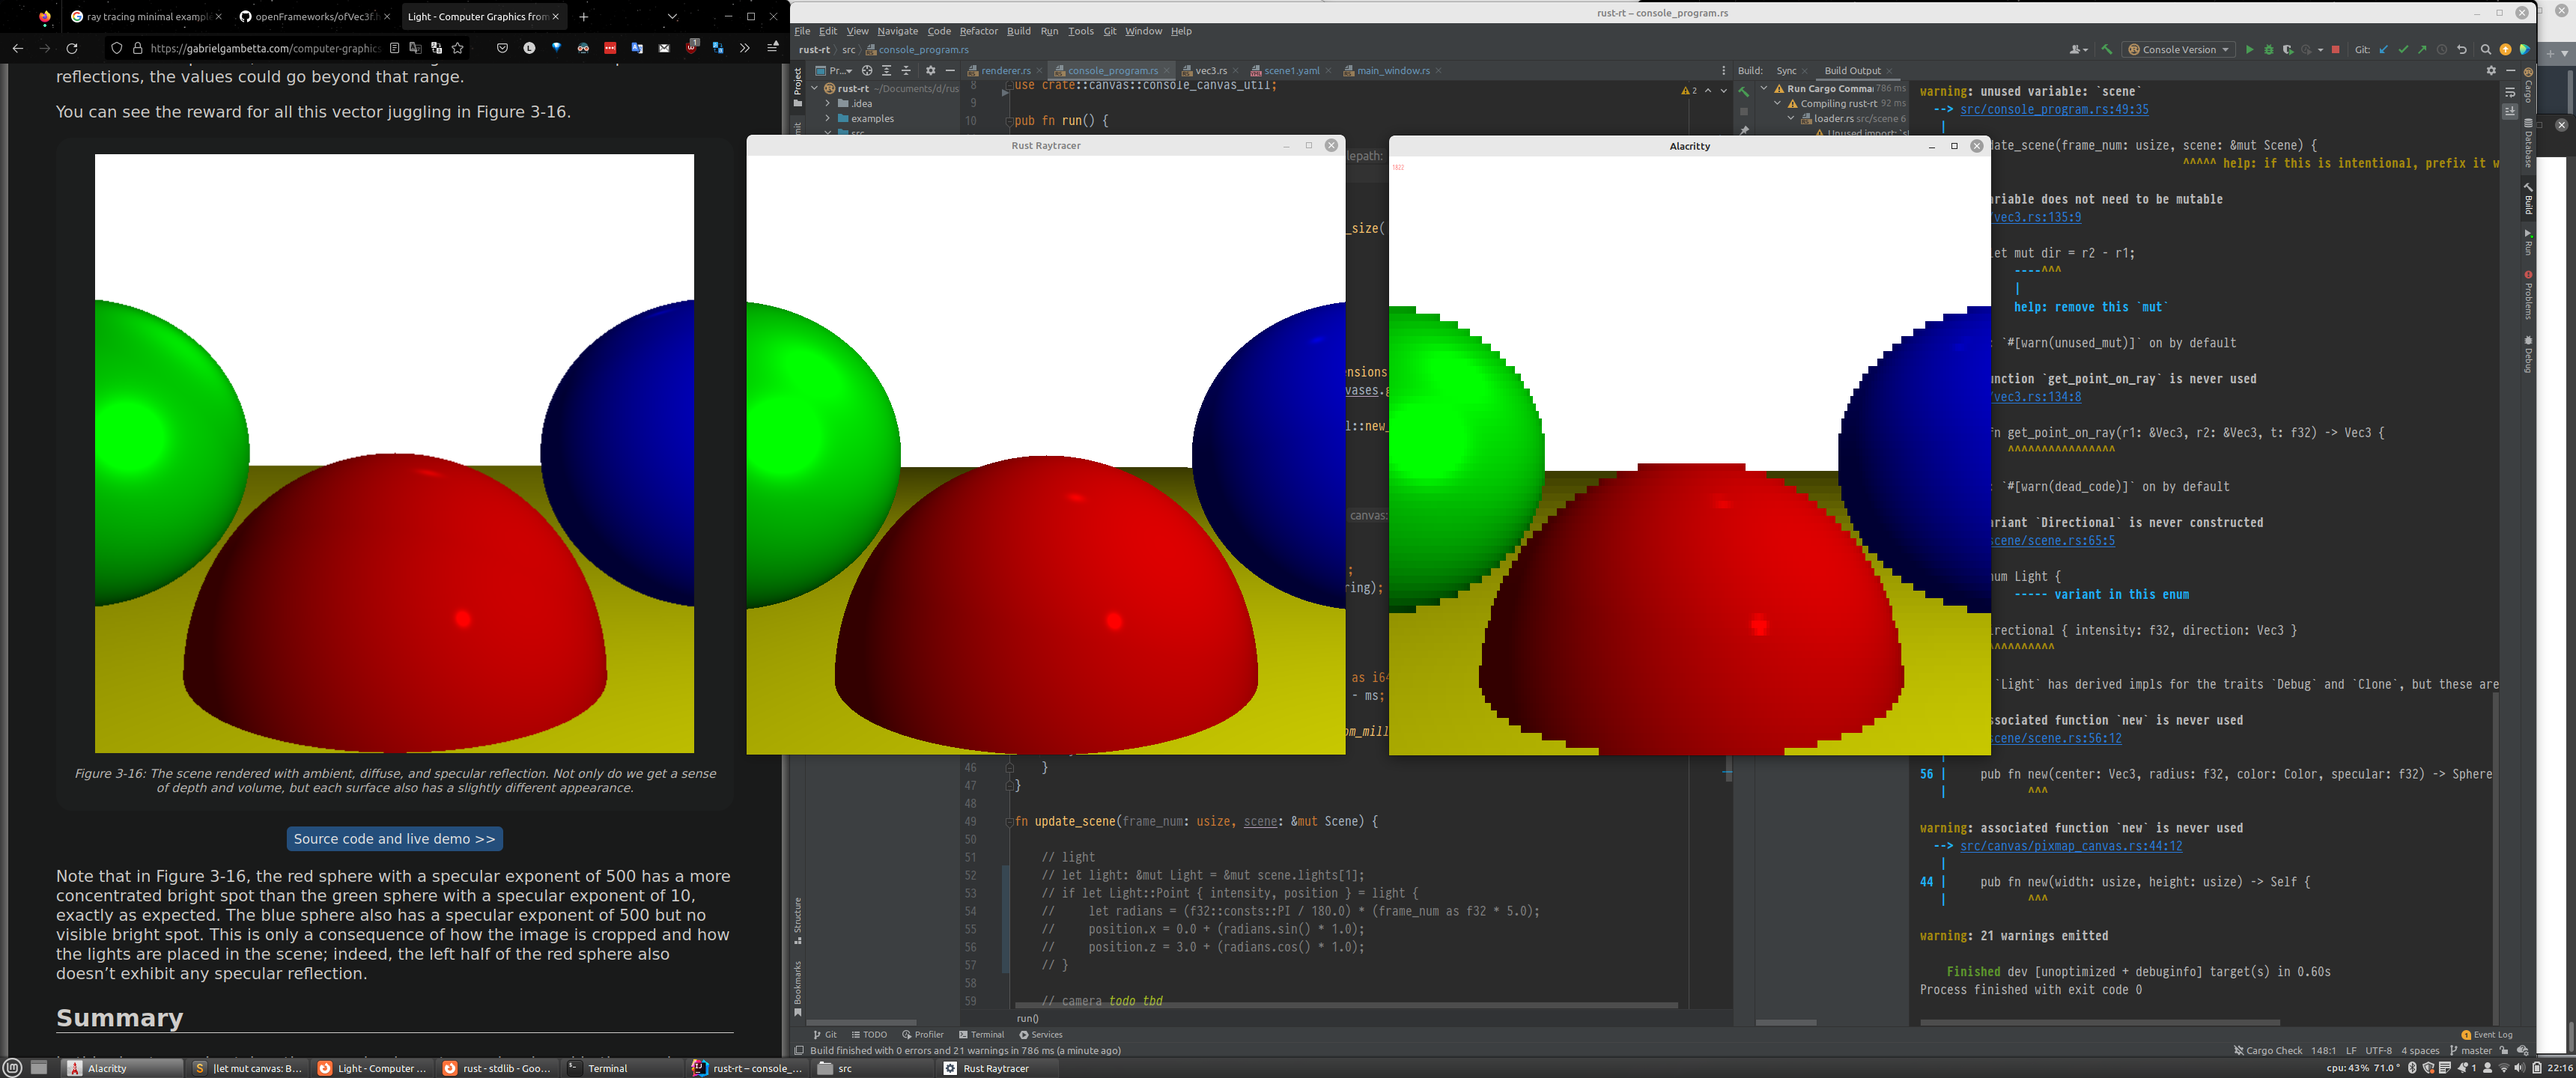
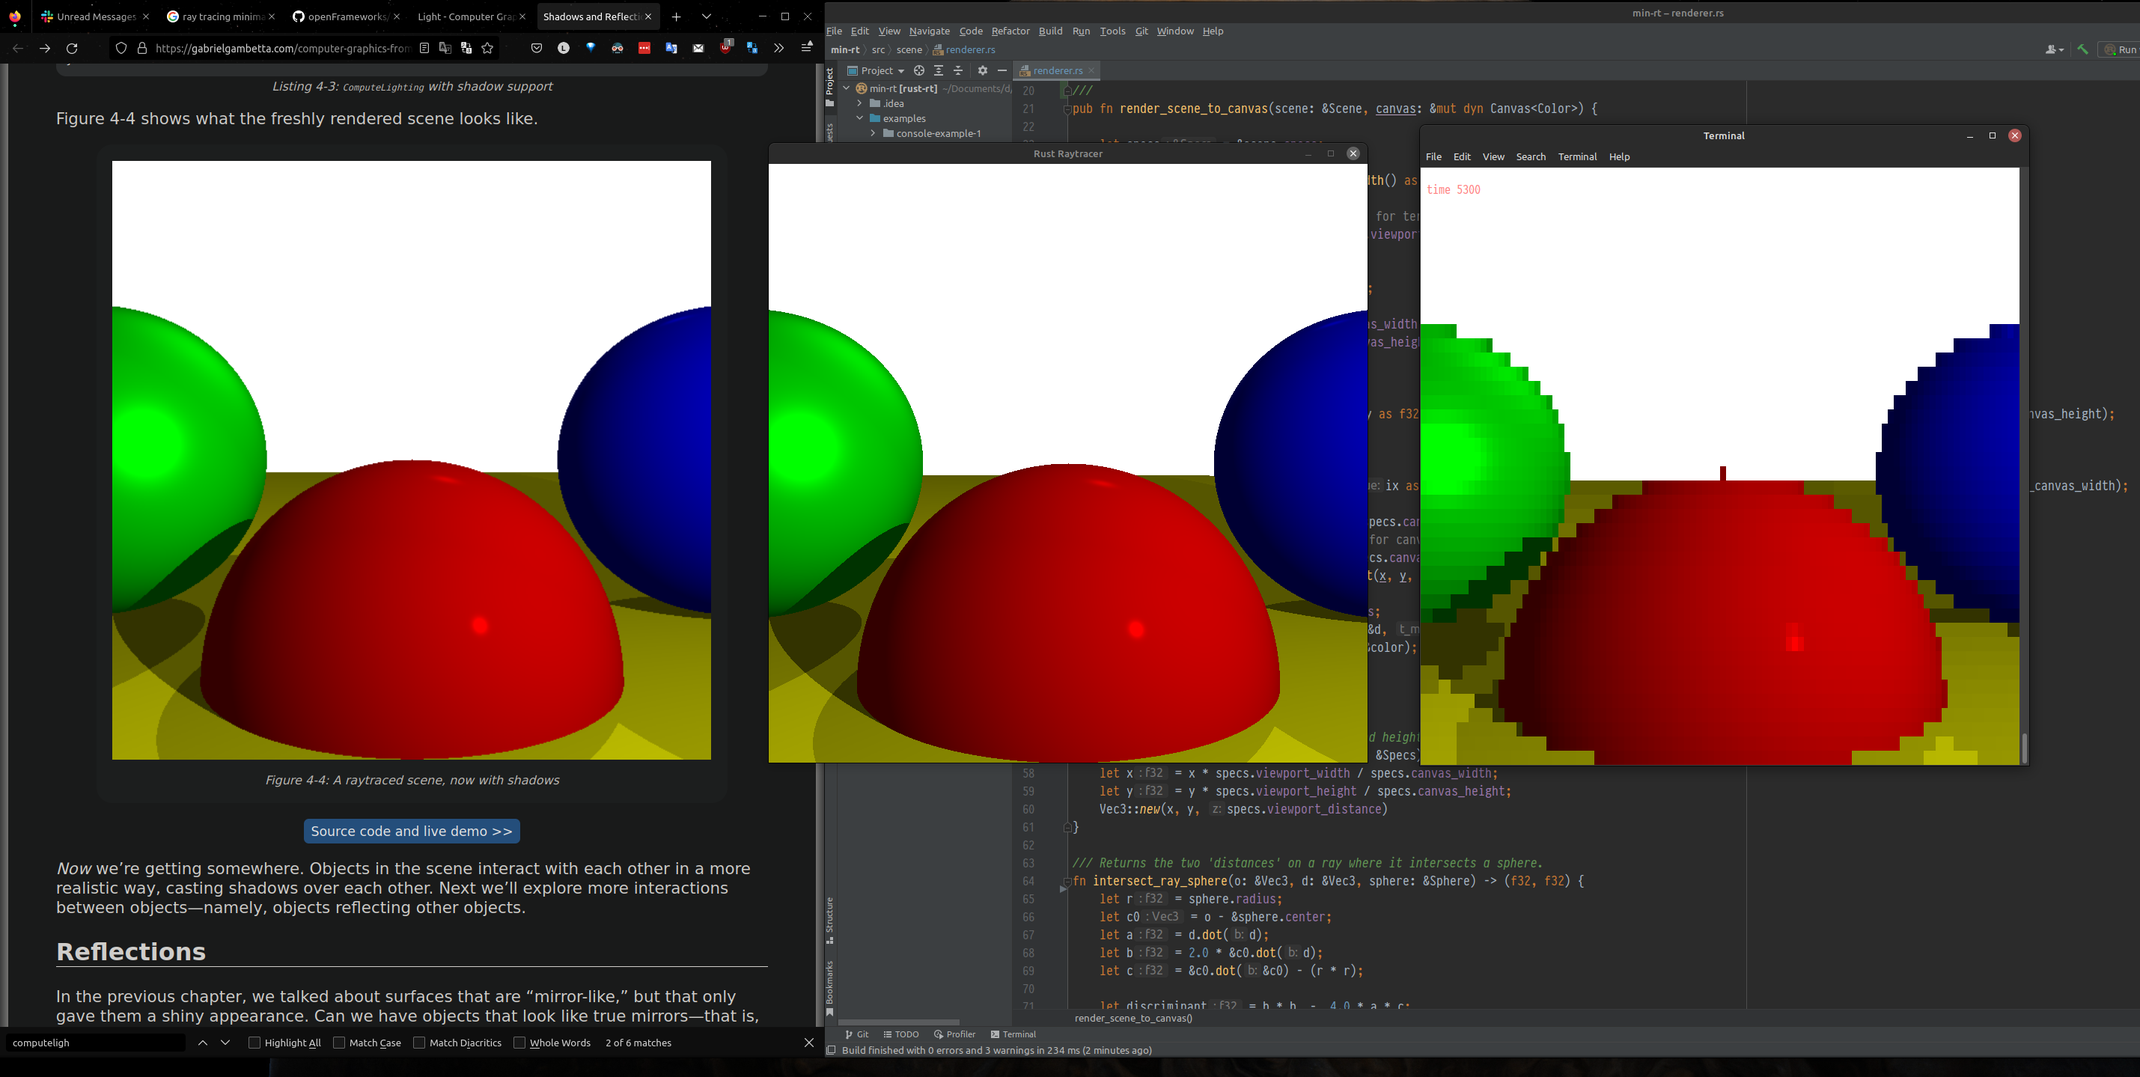
shadows

diff --git a/src/scene/renderer.rs b/src/scene/renderer.rs
@@ -4,6 +4,20 @@ use crate::base::vec3::Vec3;
 use crate::canvas::canvas::Canvas;
 use crate::util::maths;
 
+static RENDERER_EPSILON: f32 = 0.001;
+
+/// Logic for rendering a `Scene`` onto a `Canvas`
+///
+/// This is a fairly literal translation of the pseudo-code from the book
+/// ["Computer Graphics from Scratch"](https://gabrielgambetta.com/computer-graphics-from-scratch/)
+/// by Gabriel Gambetta into Rust. The names of functions and parameters have been preserved for
+/// easy cross-referencing.
+///
+
+// todo update function description comments
+
+///
+///
 pub fn render_scene_to_canvas(scene: &Scene, canvas: &mut dyn Canvas<Color>) {
 
     let specs = &scene.specs;
@@ -32,29 +46,14 @@ pub fn render_scene_to_canvas(scene: &Scene, canvas: &mut dyn Canvas<Color>) {
             y *= specs.viewport_height / specs.canvas_height;
             let d = canvas_to_viewport(x, y, &scene.specs);
 
-            let color: Color;
             let o = &specs.camera_pos;
-            let opt = trace_ray(o, &d, 1.0, f32::INFINITY, &scene.spheres);
-            match opt {
-                None => {
-                    color = scene.specs.background_color;
-                }
-                Some((sphere_index, closest_t)) => {
-                    let p = o + &(&d * closest_t); // point on surface
-                    let sphere = &scene.spheres[sphere_index];
-                    let mut n = &p - &sphere.center; // surface normal
-                    n = &n * (1.0 / n.length());
-                    let v = &d * -1.0;
-                    let intensity = calculate_lighting(&p, &n, &v, sphere.specular, &scene.lights);
-                    color = sphere.color * intensity;
-                }
-            }
+            let color = trace_ray(o, &d, 1.0, f32::INFINITY, &scene);
             canvas.set_value(ix, iy, &color);
         }
     }
 }
 
-/// Don't really understand how this is useful, but
+/// Don't understand how the canvas width and height properties are useful, but
 fn canvas_to_viewport(x: f32, y: f32, specs: &Specs) -> Vec3 {
     let x = x * specs.viewport_width / specs.canvas_width;
     let y = y * specs.viewport_height / specs.canvas_height;
@@ -63,7 +62,6 @@ fn canvas_to_viewport(x: f32, y: f32, specs: &Specs) -> Vec3 {
 
 /// Returns the two 'distances' on a ray where it intersects a sphere.
 fn intersect_ray_sphere(o: &Vec3, d: &Vec3, sphere: &Sphere) -> (f32, f32) {
-
     let r = sphere.radius;
     let c0 = o - &sphere.center;
     let a = d.dot(d);
@@ -80,83 +78,91 @@ fn intersect_ray_sphere(o: &Vec3, d: &Vec3, sphere: &Sphere) -> (f32, f32) {
     (t1, t2)
 }
 
-/// Finds the nearest intersection point between ray and sphere within the given range t,
-/// and returns the sphere's index and the point.
-fn trace_ray(o: &Vec3, d: &Vec3, t_min: f32, t_max: f32, spheres: &Vec<Sphere>) -> Option<(usize, f32)> {
+/// Returns sphere index and closest_t // return borrowed sphere reference rather than index?
+fn closest_intersection(o: &Vec3, d: &Vec3, t_min:f32 , t_max: f32, spheres: &Vec<Sphere>) -> Option<(usize, f32)> {
 
     let mut closest_t = f32::INFINITY;
     let mut closest_sphere_index: Option<usize> = None;
-
-    for i in 0..spheres.len() {
-        let sphere = &spheres[i];
-        let (t1, t2) = intersect_ray_sphere(&o, &d, sphere);
-        if t1 >=- t_min && t1 <= t_max && t1 < closest_t {
+    for (i, sphere) in spheres.iter().enumerate() {
+        let (t1, t2) = intersect_ray_sphere(o, d, &sphere);
+        if maths::within(t1, t_min, t_max) && t1 < closest_t {
             closest_t = t1;
             closest_sphere_index = Some(i);
         }
-        if t2 >= t_min && t2 <= t_max && t2 < closest_t {
+        if maths::within(t2, t_min, t_max) && t2 < closest_t {
             closest_t = t2;
             closest_sphere_index = Some(i);
         }
     }
-
-    if closest_sphere_index.is_none() {
-        return None;
+    match closest_sphere_index {
+        None => None,
+        Some(closest_sphere_index) => Some((closest_sphere_index, closest_t))
     }
-
-    let closest_sphere_index = closest_sphere_index.unwrap();
-    Some((closest_sphere_index, closest_t))
 }
 
-/// p - point on surface
-/// n - normal
-/// v - something something specularity
-/// spec - specularity factor
-/// lights - the lights to consider
-///
-fn calculate_lighting(p: &Vec3, n: &Vec3, v: &Vec3, spec: f32, lights: &Vec::<Light>) -> f32 {
+fn trace_ray(o: &Vec3, d: &Vec3, t_min: f32, t_max: f32, scene: &Scene) -> Color {
 
-    let mut sum_intensity = 0_f32;
+    let option = closest_intersection(o, d, t_min, t_max, &scene.spheres);
+    if option.is_none() {
+        return scene.specs.background_color.clone();
+    }
+    let (closest_sphere_index, closest_t) = option.unwrap();
+    let closest_sphere = &scene.spheres[closest_sphere_index];
+    let p = o + (d * closest_t);
+    let mut n = p - closest_sphere.center;
+    n = n / n.length();
+    let intensity = compute_lighting(&p, &n, &-d, closest_sphere.specular, &scene);
+    return closest_sphere.color * intensity
+}
 
-    for light in lights {
+fn compute_lighting(p: &Vec3, n: &Vec3, v: &Vec3, s: f32, scene: &Scene) -> f32 {
 
-        if let Light::Ambient { intensity } = light {
-            sum_intensity  += intensity;
+    let mut i = 0.0;
+
+    for light in &scene.lights {
+
+        let l: Vec3;
+        let t_max;
+        let intens: f32;
+
+        match light {
+            Light::Ambient { intensity } => {
+                i += intensity;
+                continue;
+            },
+            Light::Point{ intensity, position} => {
+                l = position - p;
+                t_max = 1.0;
+                intens = *intensity;
+            },
+            Light::Directional { intensity, direction } => {
+                l = direction.clone();
+                t_max = f32::INFINITY;
+                intens = *intensity;
+            }
+        }
+
+        // Shadow check
+        let option = closest_intersection(p, &l, RENDERER_EPSILON, t_max, &scene.spheres);
+        if option.is_some() {
             continue;
         }
 
-        // find `l` (which is somethingsomething) for either point light or directional light
-        let l;
-        let light_intensity: f32;
-        if let Light::Point { intensity, position } = light {
-            l = position - p;
-            light_intensity = *intensity;
-        } else if let Light::Directional { intensity, direction} = light {
-            l = direction.clone();
-            light_intensity = *intensity;
-        } else { // unreachable actually
-            continue;
-        }
-
+        // Diffuse
         let n_dot_l = n.dot(&l);
         if n_dot_l > 0.0 {
-            let modif = light_intensity * n_dot_l / (n.length() * l.length());
-            sum_intensity += modif;
+            let modif = intens * n_dot_l / (n.length() * l.length());
+            i += modif;
         }
 
-        // plus specular highlight
-        if spec != -1.0 {
+        // Specular
+        if s > 0.0 {
             let r = n * (2.0 * n.dot(&l));
             let r = &r - &l;
             let r_dot_v = r.dot(&v);
             if r_dot_v > 0.0 {
-                sum_intensity += light_intensity * (r_dot_v / (r.length() * v.length())).powf(spec);
+                i += intens * (r_dot_v / (r.length() * v.length())).powf(s);
             }
         }
-    }
-    sum_intensity
+    }i
 }
-
-// fn calculate_point_light_intensity(point_light: Light::Point) -> f32 {
-//
-// }

diff --git a/examples/window-example/src/main.rs b/examples/window-example/src/main.rs
@@ -19,6 +19,8 @@ static TIME_INCREMENT: f32 = 5.0;
 ///
 fn main() -> Result<(), Error> {
 
+    println!("\r\nPress spacebar to update scene");
+
     let event_loop = EventLoop::new();
     let mut input = WinitInputHelper::new();
     let window = {
@@ -44,12 +46,10 @@ fn main() -> Result<(), Error> {
     let mut is_scene_dirty = true;
     let mut time = 0_f32;
 
-    println!("\r\nPress spacebar to update scene");
-
     event_loop.run(move |event, _, control_flow| {
 
-        // Draw `pixels` if necessary
         if let Event::RedrawRequested(_) = event {
+            // Copy from the canvas to `pixels`
             pixels.get_frame_mut().copy_from_slice(&canvas.data);
             if pixels
                 .render()
@@ -65,18 +65,18 @@ fn main() -> Result<(), Error> {
         if input.update(&event) {
 
             if input.key_pressed(VirtualKeyCode::Escape) || input.quit() {
-                // Close events
+                // Quit
                 *control_flow = ControlFlow::Exit;
                 return;
-            }
-
-            if input.key_pressed(VirtualKeyCode::Space) {
-                is_scene_dirty = true;
             }
 
             if let Some(size) = input.window_resized() {
                 // Resize the window
                 pixels.resize_surface(size.width, size.height);
+            }
+
+            if input.key_pressed(VirtualKeyCode::Space) {
+                is_scene_dirty = true;
             }
 
             if is_scene_dirty {

diff --git a/src/base/vec3.rs b/src/base/vec3.rs
@@ -101,7 +101,10 @@ impl Vec3 {
     }
 }
 
-// Operator overloads
+/// Operator overloads
+/// todo cover all possible permutations :/
+
+/// lhs = &Vec3, rhs = &Vec3
 impl ops::Add<&Vec3> for &Vec3 {
     type Output = Vec3;
     fn add(self, rhs: &Vec3) -> Vec3 {
@@ -123,12 +126,47 @@ impl ops::Mul<&Vec3> for &Vec3 {
     }
 }
 
+/// lhs = &Vec3, rhs = Vec3
+impl ops::Add<Vec3> for &Vec3 {
+    type Output = Vec3;
+    fn add(self, rhs: Vec3) -> Vec3 {
+        Vec3::new(self.x + rhs.x, self.y + rhs.y, self.z + rhs.z)
+    }
+}
+
+/// lhs = Vec3, rhs = Vec3
+impl ops::Sub<Vec3> for Vec3 {
+    type Output = Vec3;
+    fn sub(self, rhs: Vec3) -> Vec3 {
+        Vec3::new(self.x - rhs.x, self.y - rhs.y, self.z - rhs.z)
+    }
+}
+
+/// lhs = &Vec3, rhs = f32
 impl ops::Mul<f32> for &Vec3 {
     type Output = Vec3;
     fn mul(self, rhs: f32) -> Vec3 {
         Vec3::new(self.x * rhs, self.y * rhs, self.z * rhs)
     }
 }
+
+impl ops::Neg for &Vec3 {
+    type Output = Vec3;
+    fn neg(self) -> Vec3 {
+        Vec3::new(-self.x, -self.y, -self.z)
+    }
+}
+
+/// lhs = Vec3, rhs = f32
+impl ops::Div<f32> for Vec3 {
+    type Output = Vec3;
+    fn div(self, rhs: f32) -> Vec3 {
+        Vec3::new(self.x / rhs, self.y / rhs, self.z / rhs)
+    }
+}
+
+
+
 
 // Util functions
 

diff --git a/examples/console-example-1/src/main.rs b/examples/console-example-1/src/main.rs
@@ -11,10 +11,11 @@ fn main() {
     let mut canvas
         = ConsoleCompositeCanvas::new(80, 40, Color::new(255, 64, 64));
 
-    // Programmatically construct a minimal scene
+    // Construct a minimal scene programmatically
     let scene = {
         let mut specs = Specs::new_with_defaults();
         specs.pixel_ar = 0.40; // tall pixel aspect ratio because terminal
+        specs.background_color.set(0, 0, 0);
 
         let light = Light::Ambient { intensity: 1.0 };
         let mut lights = Vec::<Light>::new();

diff --git a/src/util/maths.rs b/src/util/maths.rs
@@ -12,3 +12,8 @@ pub fn clamp<T: PartialOrd>(value: T, min: T, max: T) -> T {
         value
     }
 }
+
+/// Is value within the given range (inclusive)
+pub fn within(value: f32, min: f32, max: f32) -> bool {
+    value >= min && value <= max
+}
